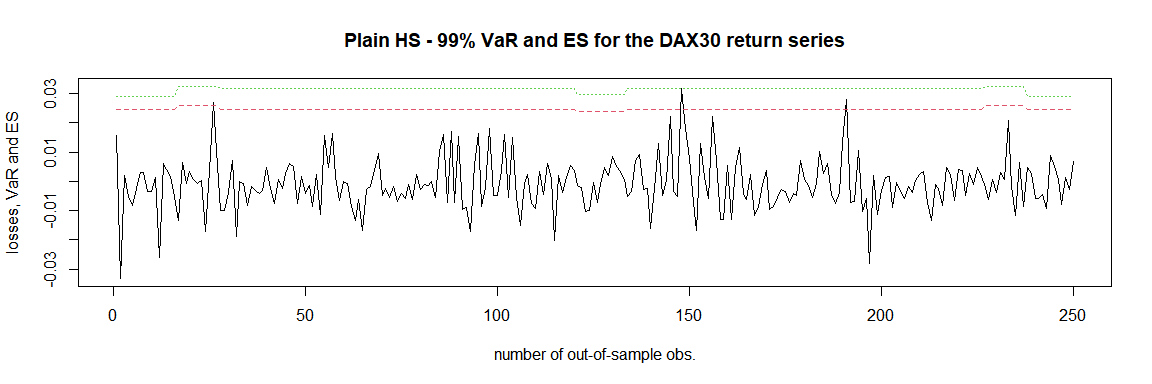
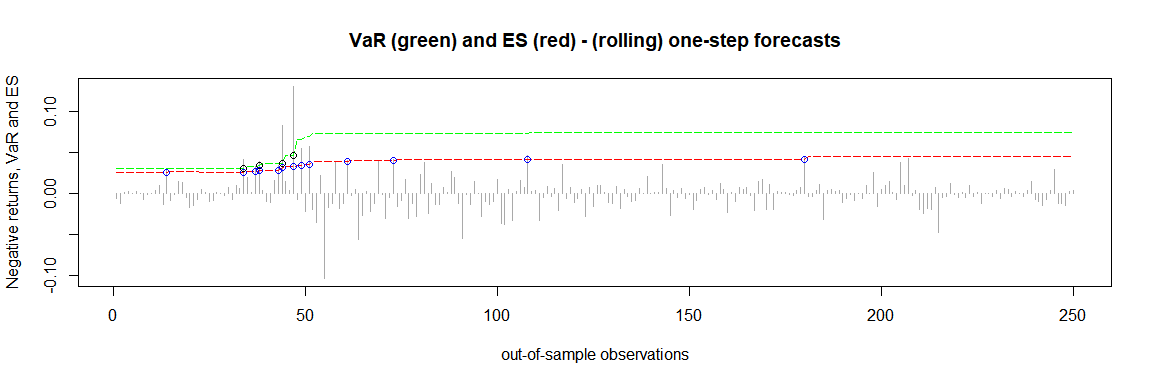
version 1.0.1

diff --git a/README.md b/README.md
@@ -28,8 +28,9 @@ install.packages("quarks")
 This is a basic example which shows you how to solve a common problem.
 The data `DAX30` in this package contains daily financial data of the
 DAX from 2000 to December 2019 (currency in EUR). In the following
-examples the (out-of-sample) one-step forecasts of the 99%-VaR and the
-corresponding ES are computed.
+examples the (out-of-sample) one-step forecasts of the 99%-VaR (red
+line) and the corresponding ES (green line) are computed. Exceedances
+are indicated by the colored circles.
 
 ``` r
 library(quarks)         # Call the package
@@ -40,45 +41,31 @@ library(quarks)         # Call the package
 prices <- DAX30$price.close
 returns <- diff(log(prices))
 
-n <- length(returns)
-nout <- 250 # number of obs. for out-of-sample forecasting
-retout <- returns[(n - nout + 1):n] # out-of-sample returns
-
 ### Example 1 - plain historical simulation 
-results1 <- rollcast(x = returns, p = 0.99, method = 'plain')
-matplot(1:nout, cbind(-retout, results1$VaR, results1$ES),
-  type = 'lll',
-  xlab = 'number of out-of-sample obs.', ylab = 'losses, VaR and ES',
-  main = 'Plain HS - 99% VaR and ES for the DAX30 return series'
-)
+results1 <- rollcast(x = returns, p = 0.99, method = 'plain', nout = 250,
+                     nwin = 500)
+plot(results1)
 ```
 
 <img src="man/figures/README-unnamed-chunk-2-1.png" width="100%" />
 
 ``` r
 ### Example 2 - age weighted historical simulation 
-results2 <- rollcast(x = returns, p = 0.99, method = 'age')
-matplot(1:nout, cbind(-retout, results2$VaR, results2$ES),
-  type = 'lll',
-  xlab = 'number of out-of-sample obs.', ylab = 'losses, VaR and ES',
-  main = 'Age weighted HS - 99% VaR and ES for the DAX30 return series'
-)
+results2 <- rollcast(x = returns, p = 0.99, method = 'age', nout = 250,
+                     nwin = 500)
+plot(results2)
 ```
 
 <img src="man/figures/README-unnamed-chunk-3-1.png" width="100%" />
 
 ``` r
 ### Example 3 - volatility weighted historical simulation 
-results3 <- rollcast(x = returns, p = 0.99, method = 'vwhs')
-matplot(1:nout, cbind(-retout, results3$VaR, results3$ES),
-  type = 'lll',
-  xlab = 'number of out-of-sample obs.', ylab = 'losses, VaR and ES',
-  main = 'Vol. weighted HS - 99% VaR and ES for the DAX30 return series'
-)
+results3 <- rollcast(x = returns, p = 0.99, method = 'vwhs', nout = 250,
+                     nwin = 500)
+plot(results3)
 ```
 
 <img src="man/figures/README-unnamed-chunk-4-1.png" width="100%" />
 
-To further analyze these results one might apply various backtesting
-procedures (e.g. traffic light test) in order to assess the performance
-of these methods.
+To further analyze these results one might apply e.g. the traffic light
+test to assess the performance of these methods.

diff --git a/NEWS.md b/NEWS.md
@@ -1,2 +1,5 @@
-# quarks 1.0.0
+# quarks 1.0.1
+
+- the example in the README file was adjusted.
+- minor adjustments in the documentation were made.
 
